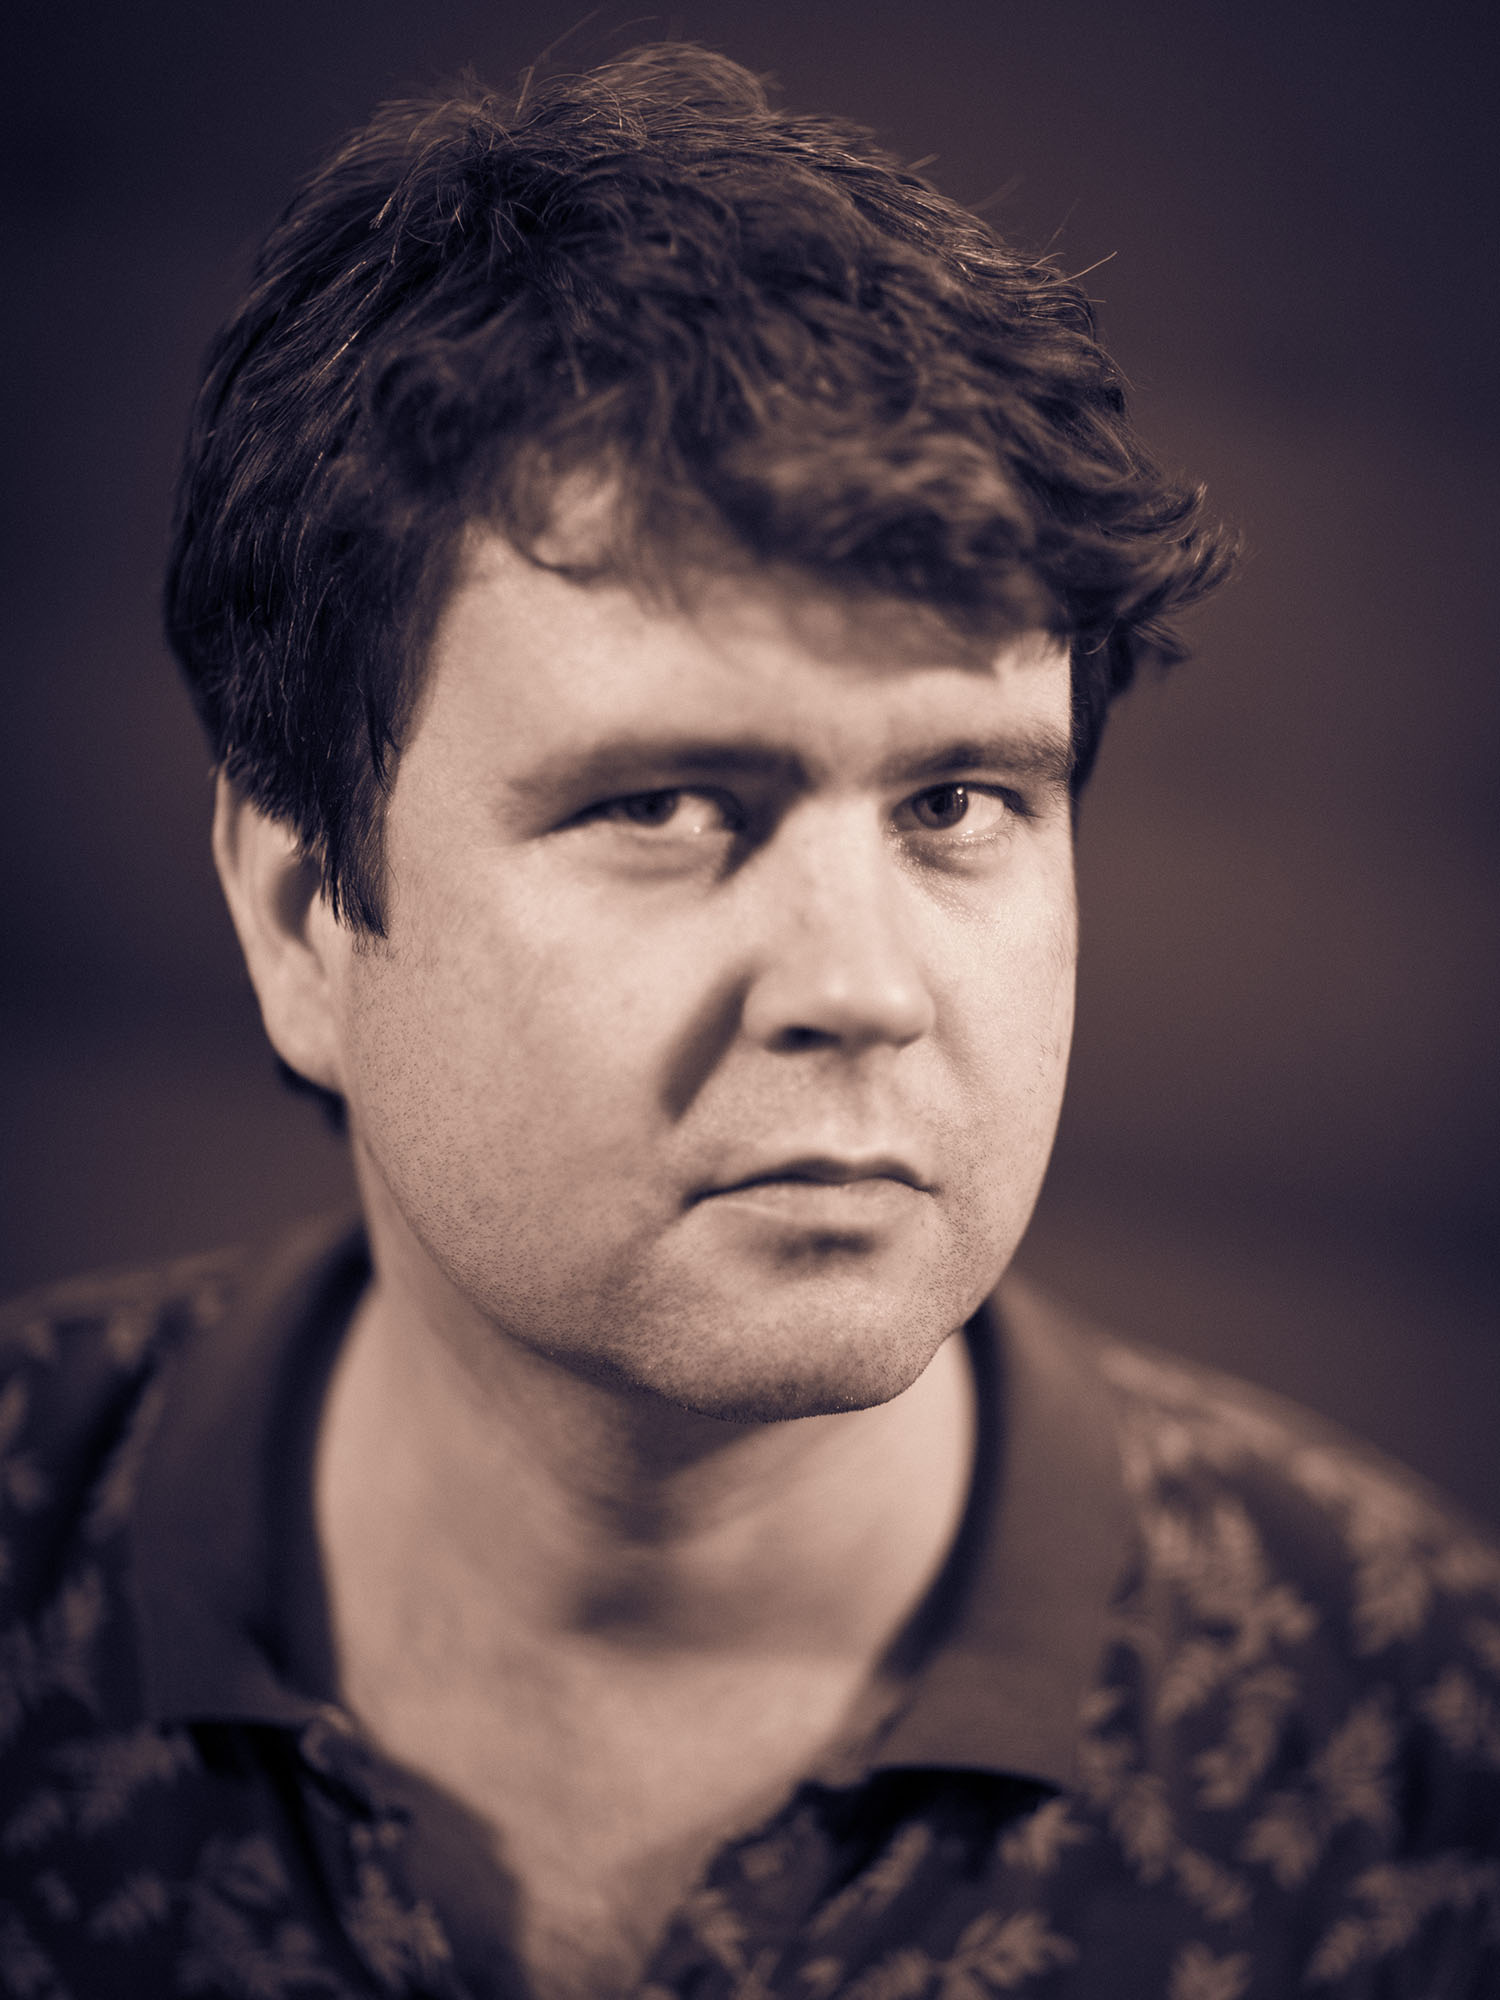
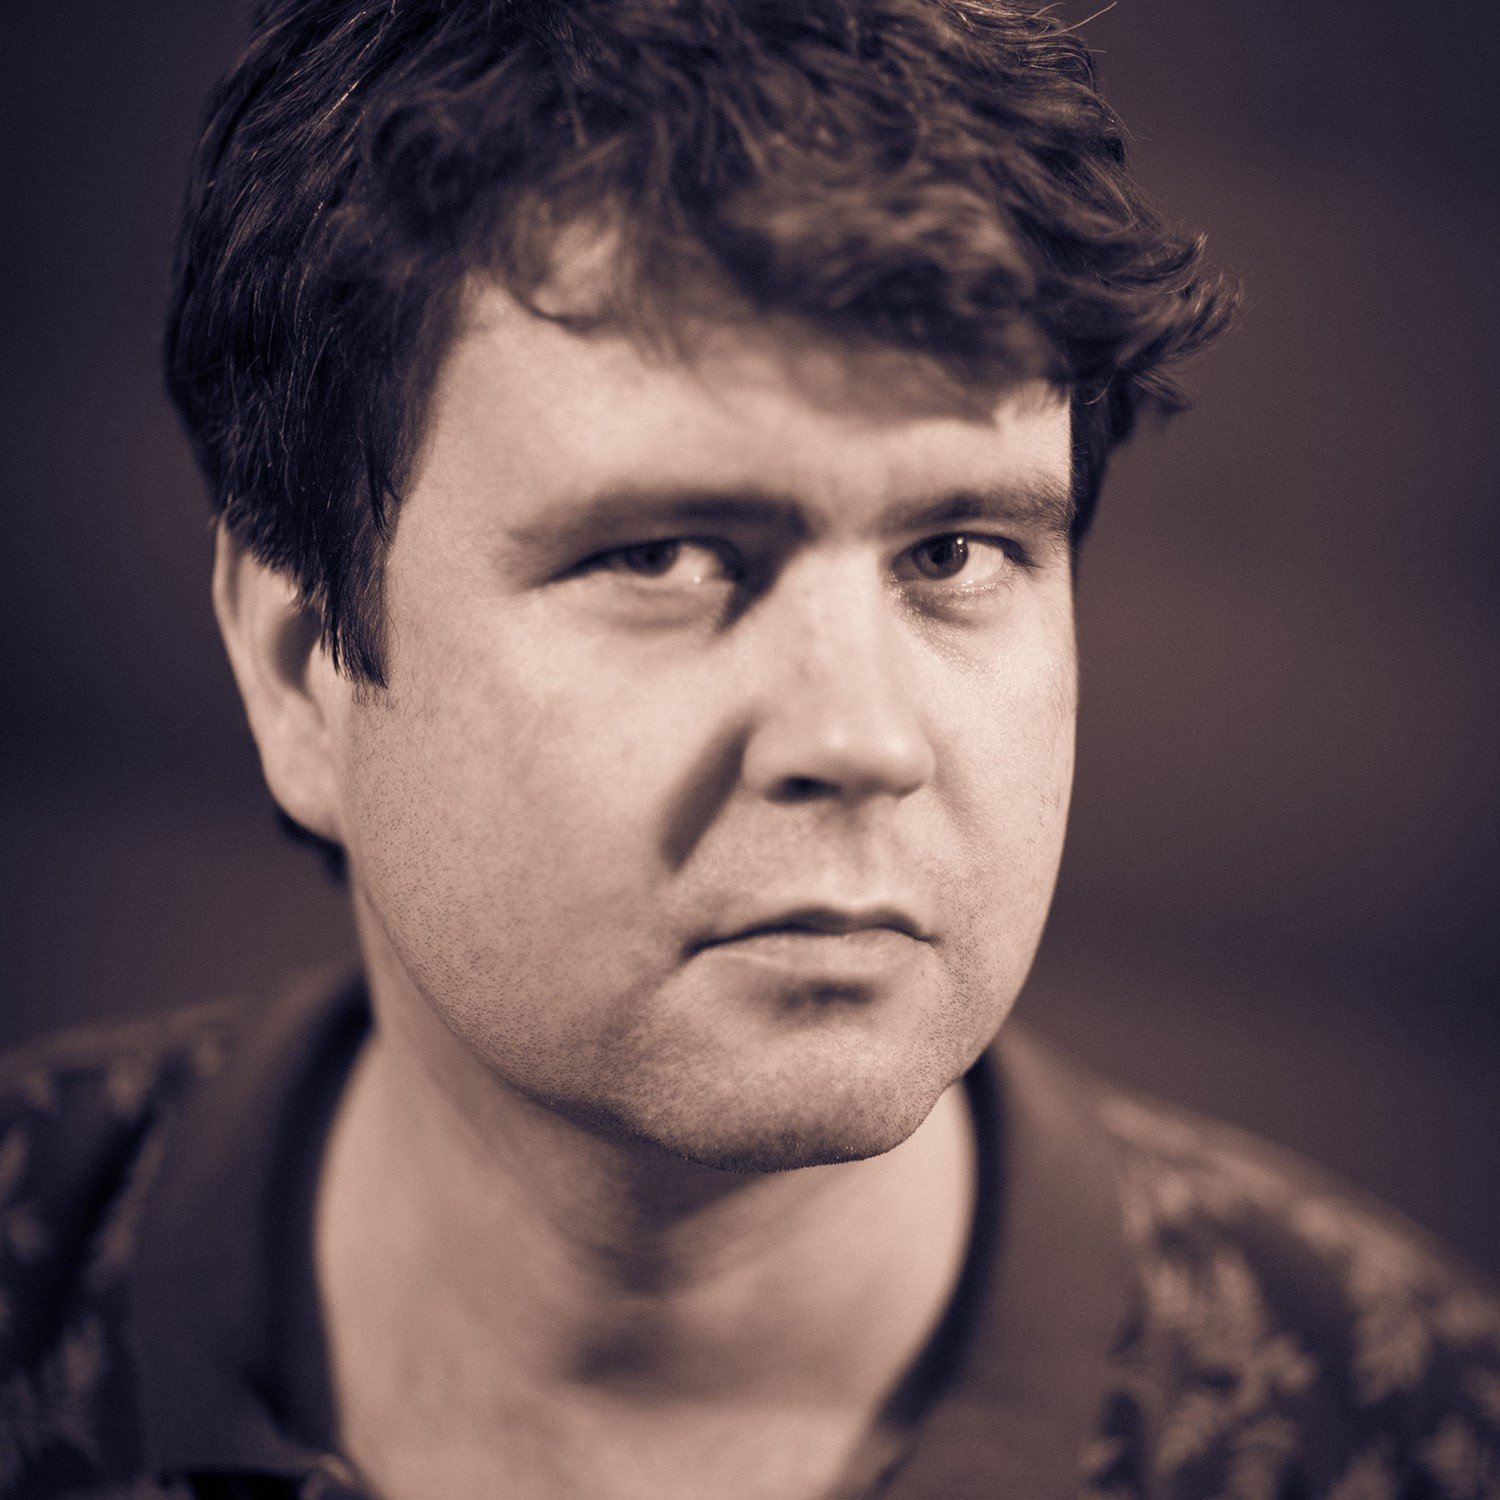
improve layouts

diff --git a/index.html b/index.html
@@ -100,7 +100,7 @@
                 </p>
                 <p class="subtitle is-6 article-subtitle">
                   <p>
-                    <img src="/images/clement.jpeg"/>
+                    <img class="author-image" src="/images/clement.jpeg"/>
                   </p>
                   <p>
                     LinkedIn
@@ -125,13 +125,6 @@
               <div class="content article-body">
                 <p>Je suis un spécialiste généraliste et artisan logiciel, travaillant comme pigiste.</p>
 <p>J'ai commencé en tant qu'ingénieur logiciel sur la plate-forme Microsoft .NET dans une société de conseil. J'y développe rapidement une spécialité technique, et un premier intérêt pour les principes et pratiques Agiles.</p>
-<p>Après un projet de 18 mois mené de cette manière, je suis devenu de plus en plus convaincu d'Agile dans le développement informatique, grâce à l'orientation client et à la valeur commerciale nécessaires, qui je pense être la plus précieuse dans l'approche Agile.</p>
-<p>J'ai ensuite travaillé comme &quot;consultant qualité et méthode&quot; pour construire et déployer au niveau de l'entreprise ce que j'ai appris, mais dans un contexte d'amélioration des processus CMMI. C'était vraiment instructif, même si je ne partageais pas la vision du projet.</p>
-<p>J'ai recommencé des projets pour un autre client. Le contexte était vraiment différent avec beaucoup d'équipes spécialisées devant collaborer (ou du moins essayer) et l'externalisation offshore «classique». Malheureusement, ce fut un échec typique de ces organisations, mais j'en ai beaucoup appris.</p>
-<p>J'ai ensuite compris plusieurs erreurs, que je ne comprends mieux qu'après quelques années, à travers beaucoup de lectures et de retours de la communauté (Alt.Net Paris, XP France,…). Il y avait trop d '«optimisation locale» comme dans plusieurs organisations typiques, et l'offshore ne peut être considéré que comme un moyen de base pour réduire les coûts sans prendre en charge les processus complexes impliqués.</p>
-<p>Maintenant, j'essaie de tirer parti de ce que j'ai appris dans chacun de mes nouveaux postes, en me concentrant sur les besoins des clients commerciaux et la valeur commerciale, en essayant de persuader mes collègues de poursuivre le même objectif, en utilisant des pratiques autour de l'initiative Software Craftsmanship.
-Je n'oublie jamais d'en apprendre davantage sur l'interaction humaine, les expériences et toute la communauté.</p>
-<p>Je connais principalement la plate-forme Microsoft .NET, mais d'un point de vue architectural, je pense que je peux réussir à travailler sur plusieurs technologies. J'ai travaillé avec PHP Symfony 2 ou JEE par exemple en tirant parti des pratiques et en comblant le fossé technologique avec beaucoup de parallélisme entre les plates-formes.</p>
 
               </div>
             </div>
@@ -148,7 +141,7 @@ Je n'oublie jamais d'en apprendre davantage sur l'interaction humaine, les expé
                 </p>
                 <p class="subtitle is-6 article-subtitle">
                   <p>
-                    <img src="/images/RobertPickering.jpg"/>
+                    <img class="author-image" src="/images/RobertPickering.jpg"/>
                   </p>
                   <p>
                     LinkedIn
@@ -171,7 +164,7 @@ Je n'oublie jamais d'en apprendre davantage sur l'interaction humaine, les expé
                 </p>
               </div>
               <div class="content article-body">
-                <p>Robert est un ingénieur logiciel expérimenté, responsable du développement et auteur technique publié. Son travail a souvent consisté à assurer le bon fonctionnement des plateformes logicielles. Cela l'a amené à croire que les opérations et la maintenance sont une considération importante de l'architecture logicielle. Il pense que l'architecture logicielle doit être aussi simple que possible, mais pas plus simple. Il croit que les langages fonctionnels donnent les meilleurs résultats lors du développement de systèmes logiciels car ils donnent au développeur les outils pour décomposer des systèmes complexes en pièces plus simples. Sa croyance en la programmation fonctionnelle l'a amené à passer beaucoup de temps à promouvoir le langage F # en écrivant à ce sujet et en prenant la parole lors de conférences. La dernière édition de son livre «Beginning F #» a été publiée par Apress en 2016.</p>
+                <p>Robert est un ingénieur logiciel expérimenté, responsable du développement et auteur technique publié.</p>
 
               </div>
             </div>

diff --git a/content/RobertPickering.html b/content/RobertPickering.html
@@ -72,7 +72,7 @@
                 </p>
                 <p class="subtitle is-6 article-subtitle">
                   <p>
-                    <img src="/images/RobertPickering.jpg"/>
+                    <img class="author-image" src="/images/RobertPickering.jpg"/>
                   </p>
                   <p>
                     LinkedIn
@@ -95,7 +95,9 @@
                 </p>
               </div>
               <div class="content article-body">
-                <p>Robert est un ingénieur logiciel expérimenté, responsable du développement et auteur technique publié. Son travail a souvent consisté à assurer le bon fonctionnement des plateformes logicielles. Cela l'a amené à croire que les opérations et la maintenance sont une considération importante de l'architecture logicielle. Il pense que l'architecture logicielle doit être aussi simple que possible, mais pas plus simple. Il croit que les langages fonctionnels donnent les meilleurs résultats lors du développement de systèmes logiciels car ils donnent au développeur les outils pour décomposer des systèmes complexes en pièces plus simples. Sa croyance en la programmation fonctionnelle l'a amené à passer beaucoup de temps à promouvoir le langage F # en écrivant à ce sujet et en prenant la parole lors de conférences. La dernière édition de son livre «Beginning F #» a été publiée par Apress en 2016.</p>
+                <p>Robert est un ingénieur logiciel expérimenté, responsable du développement et auteur technique publié.</p>
+<!--more-->
+<p>Son travail a souvent consisté à assurer le bon fonctionnement des plateformes logicielles. Cela l'a amené à croire que les opérations et la maintenance sont une considération importante de l'architecture logicielle. Il pense que l'architecture logicielle doit être aussi simple que possible, mais pas plus simple. Il croit que les langages fonctionnels donnent les meilleurs résultats lors du développement de systèmes logiciels car ils donnent au développeur les outils pour décomposer des systèmes complexes en pièces plus simples. Sa croyance en la programmation fonctionnelle l'a amené à passer beaucoup de temps à promouvoir le langage F # en écrivant à ce sujet et en prenant la parole lors de conférences. La dernière édition de son livre «Beginning F #» a été publiée par Apress en 2016.</p>
 
               </div>
             </div>

diff --git a/content/ClementBouillier.html b/content/ClementBouillier.html
@@ -72,7 +72,7 @@
                 </p>
                 <p class="subtitle is-6 article-subtitle">
                   <p>
-                    <img src="/images/clement.jpeg"/>
+                    <img class="author-image" src="/images/clement.jpeg"/>
                   </p>
                   <p>
                     LinkedIn
@@ -97,6 +97,7 @@
               <div class="content article-body">
                 <p>Je suis un spécialiste généraliste et artisan logiciel, travaillant comme pigiste.</p>
 <p>J'ai commencé en tant qu'ingénieur logiciel sur la plate-forme Microsoft .NET dans une société de conseil. J'y développe rapidement une spécialité technique, et un premier intérêt pour les principes et pratiques Agiles.</p>
+<!--more-->
 <p>Après un projet de 18 mois mené de cette manière, je suis devenu de plus en plus convaincu d'Agile dans le développement informatique, grâce à l'orientation client et à la valeur commerciale nécessaires, qui je pense être la plus précieuse dans l'approche Agile.</p>
 <p>J'ai ensuite travaillé comme &quot;consultant qualité et méthode&quot; pour construire et déployer au niveau de l'entreprise ce que j'ai appris, mais dans un contexte d'amélioration des processus CMMI. C'était vraiment instructif, même si je ne partageais pas la vision du projet.</p>
 <p>J'ai recommencé des projets pour un autre client. Le contexte était vraiment différent avec beaucoup d'équipes spécialisées devant collaborer (ou du moins essayer) et l'externalisation offshore «classique». Malheureusement, ce fut un échec typique de ces organisations, mais j'en ai beaucoup appris.</p>

diff --git a/style/style.css b/style/style.css
@@ -15,7 +15,7 @@ html,body {
   background-position: center;
   background-size: cover;
   background-repeat: no-repeat;
-  height: 500px;
+  height: 300px;
   }
   .articles {
     margin: 5rem 0;
@@ -26,11 +26,10 @@ html,body {
       margin: 15px 0;
   }
   .author-image {
-      position: absolute;
       top: -30px;
       left: 50%;
-      width: 60px;
-      height: 60px;
+      width: 200px;
+      height: 200px;
       margin-left: -30px;
       border: 3px solid #ccc;
       border-radius: 50%;
